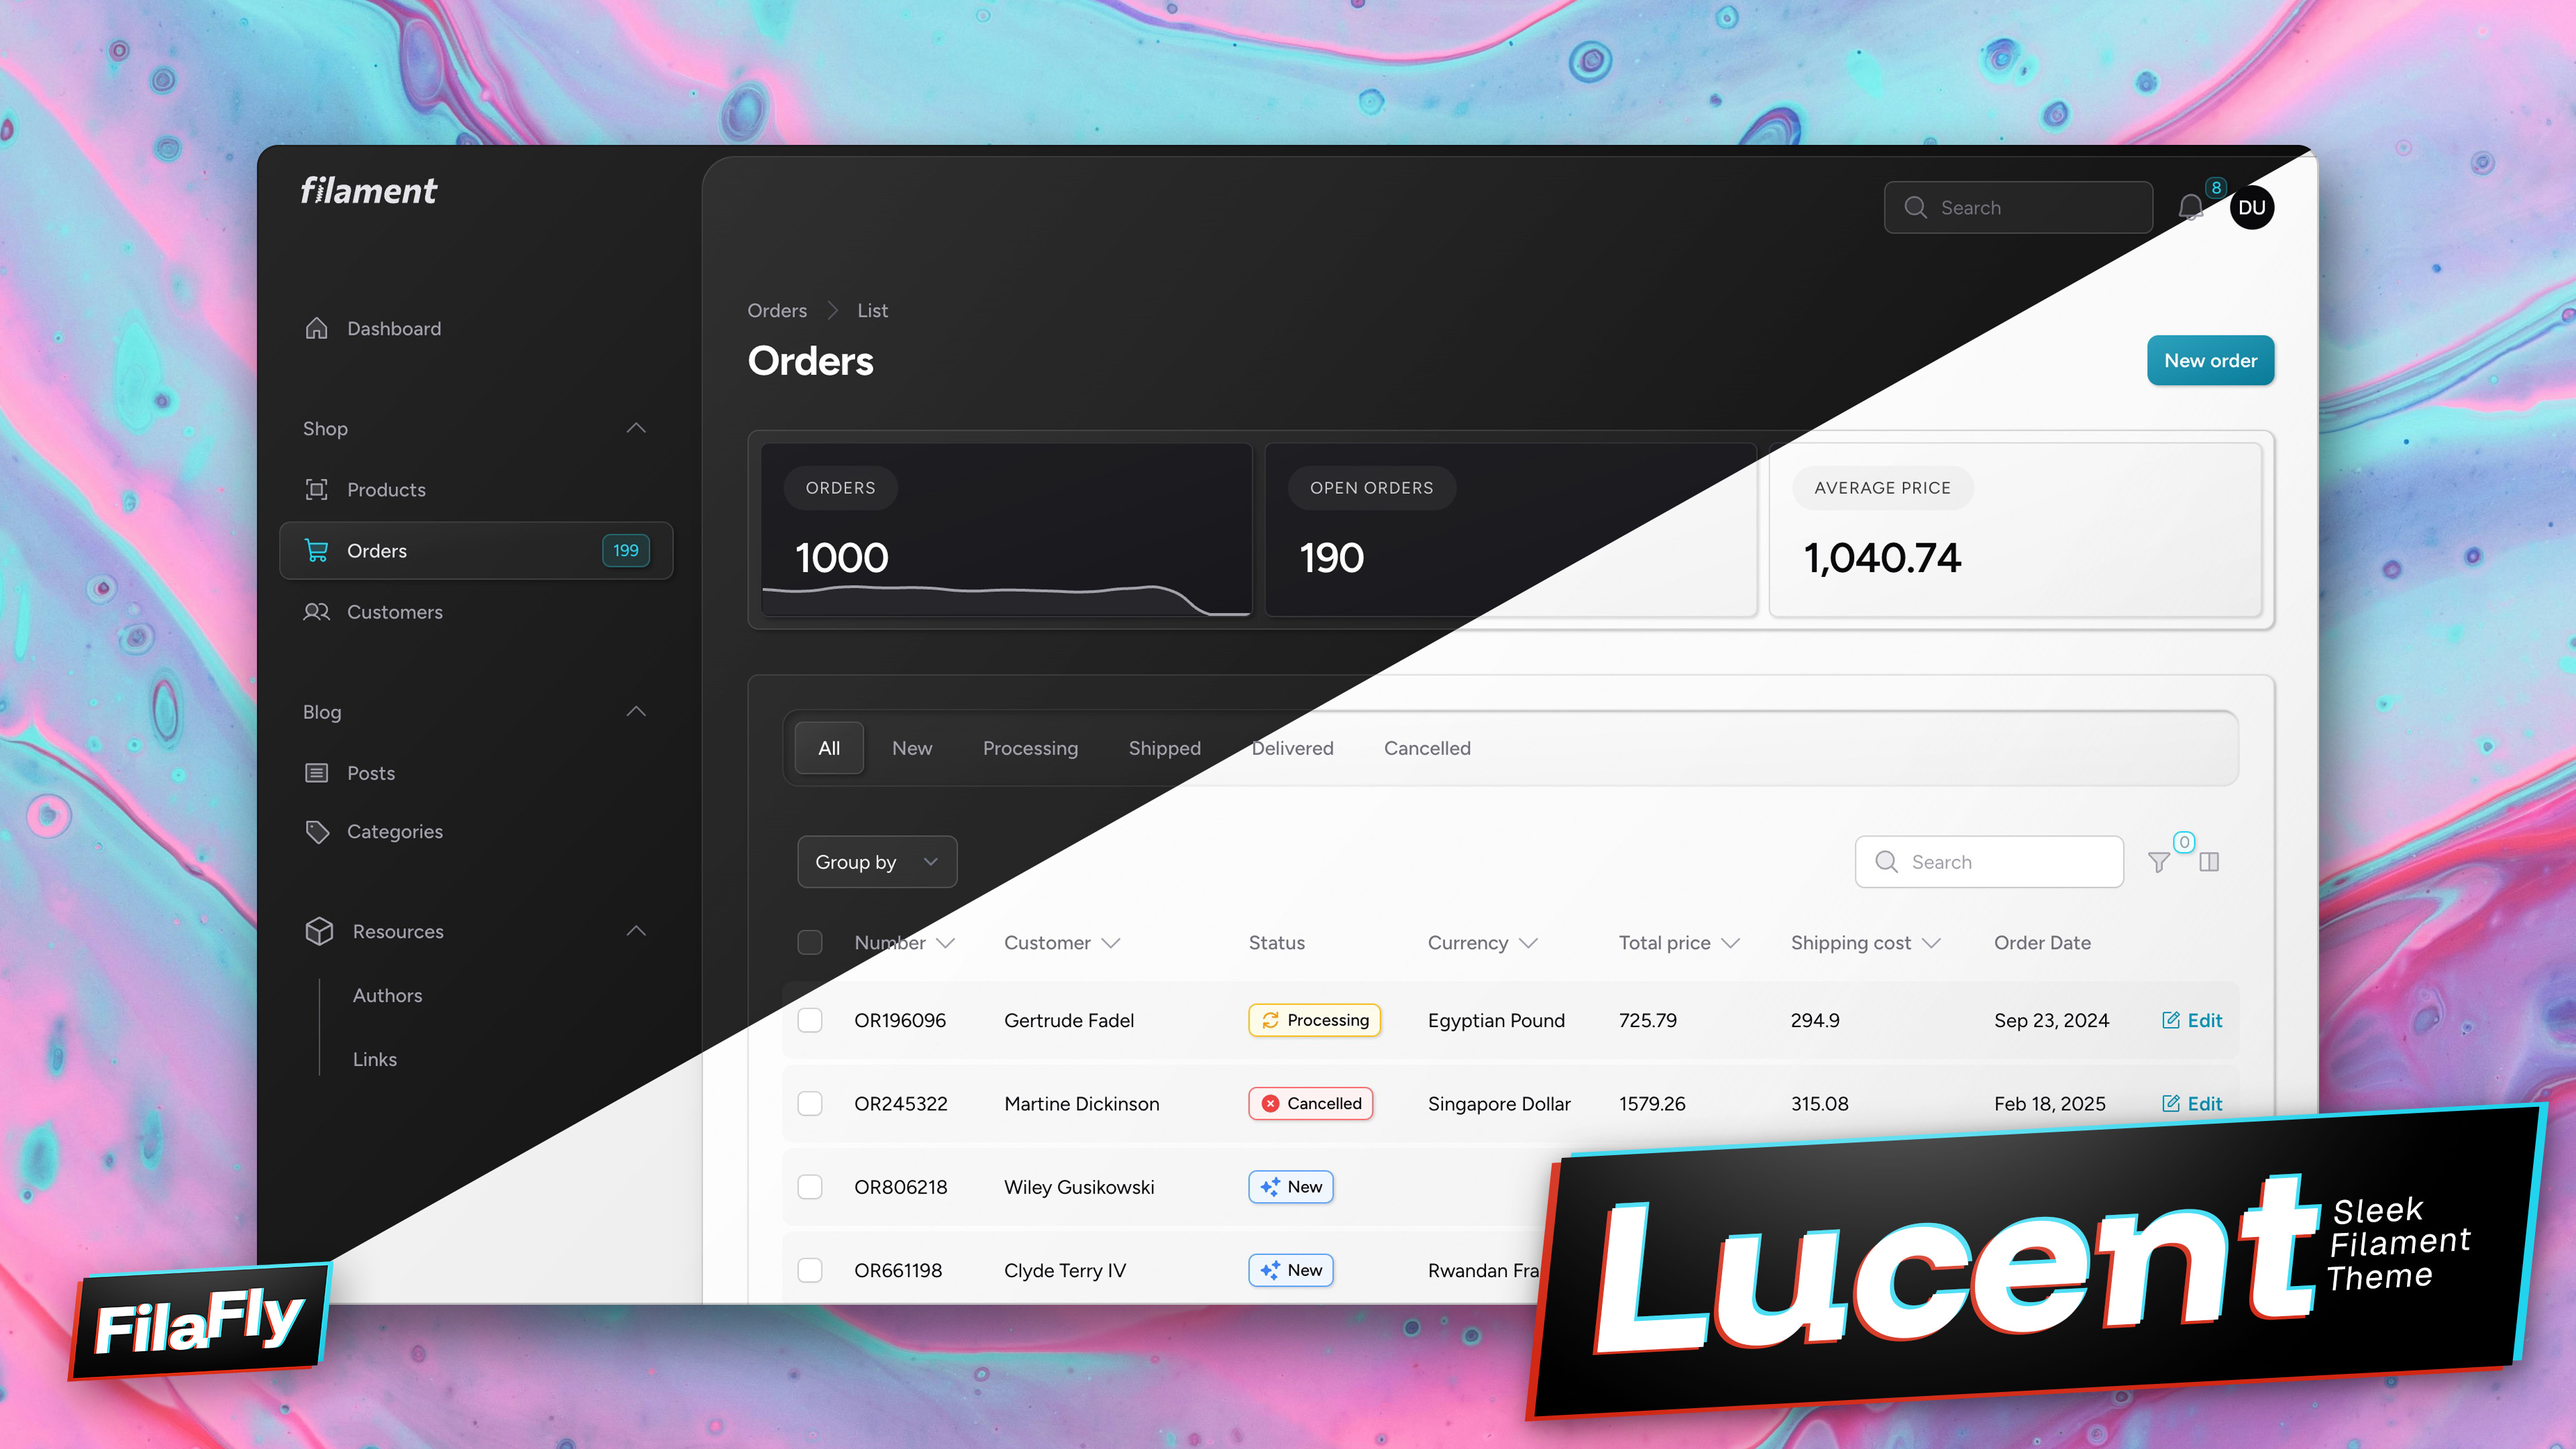
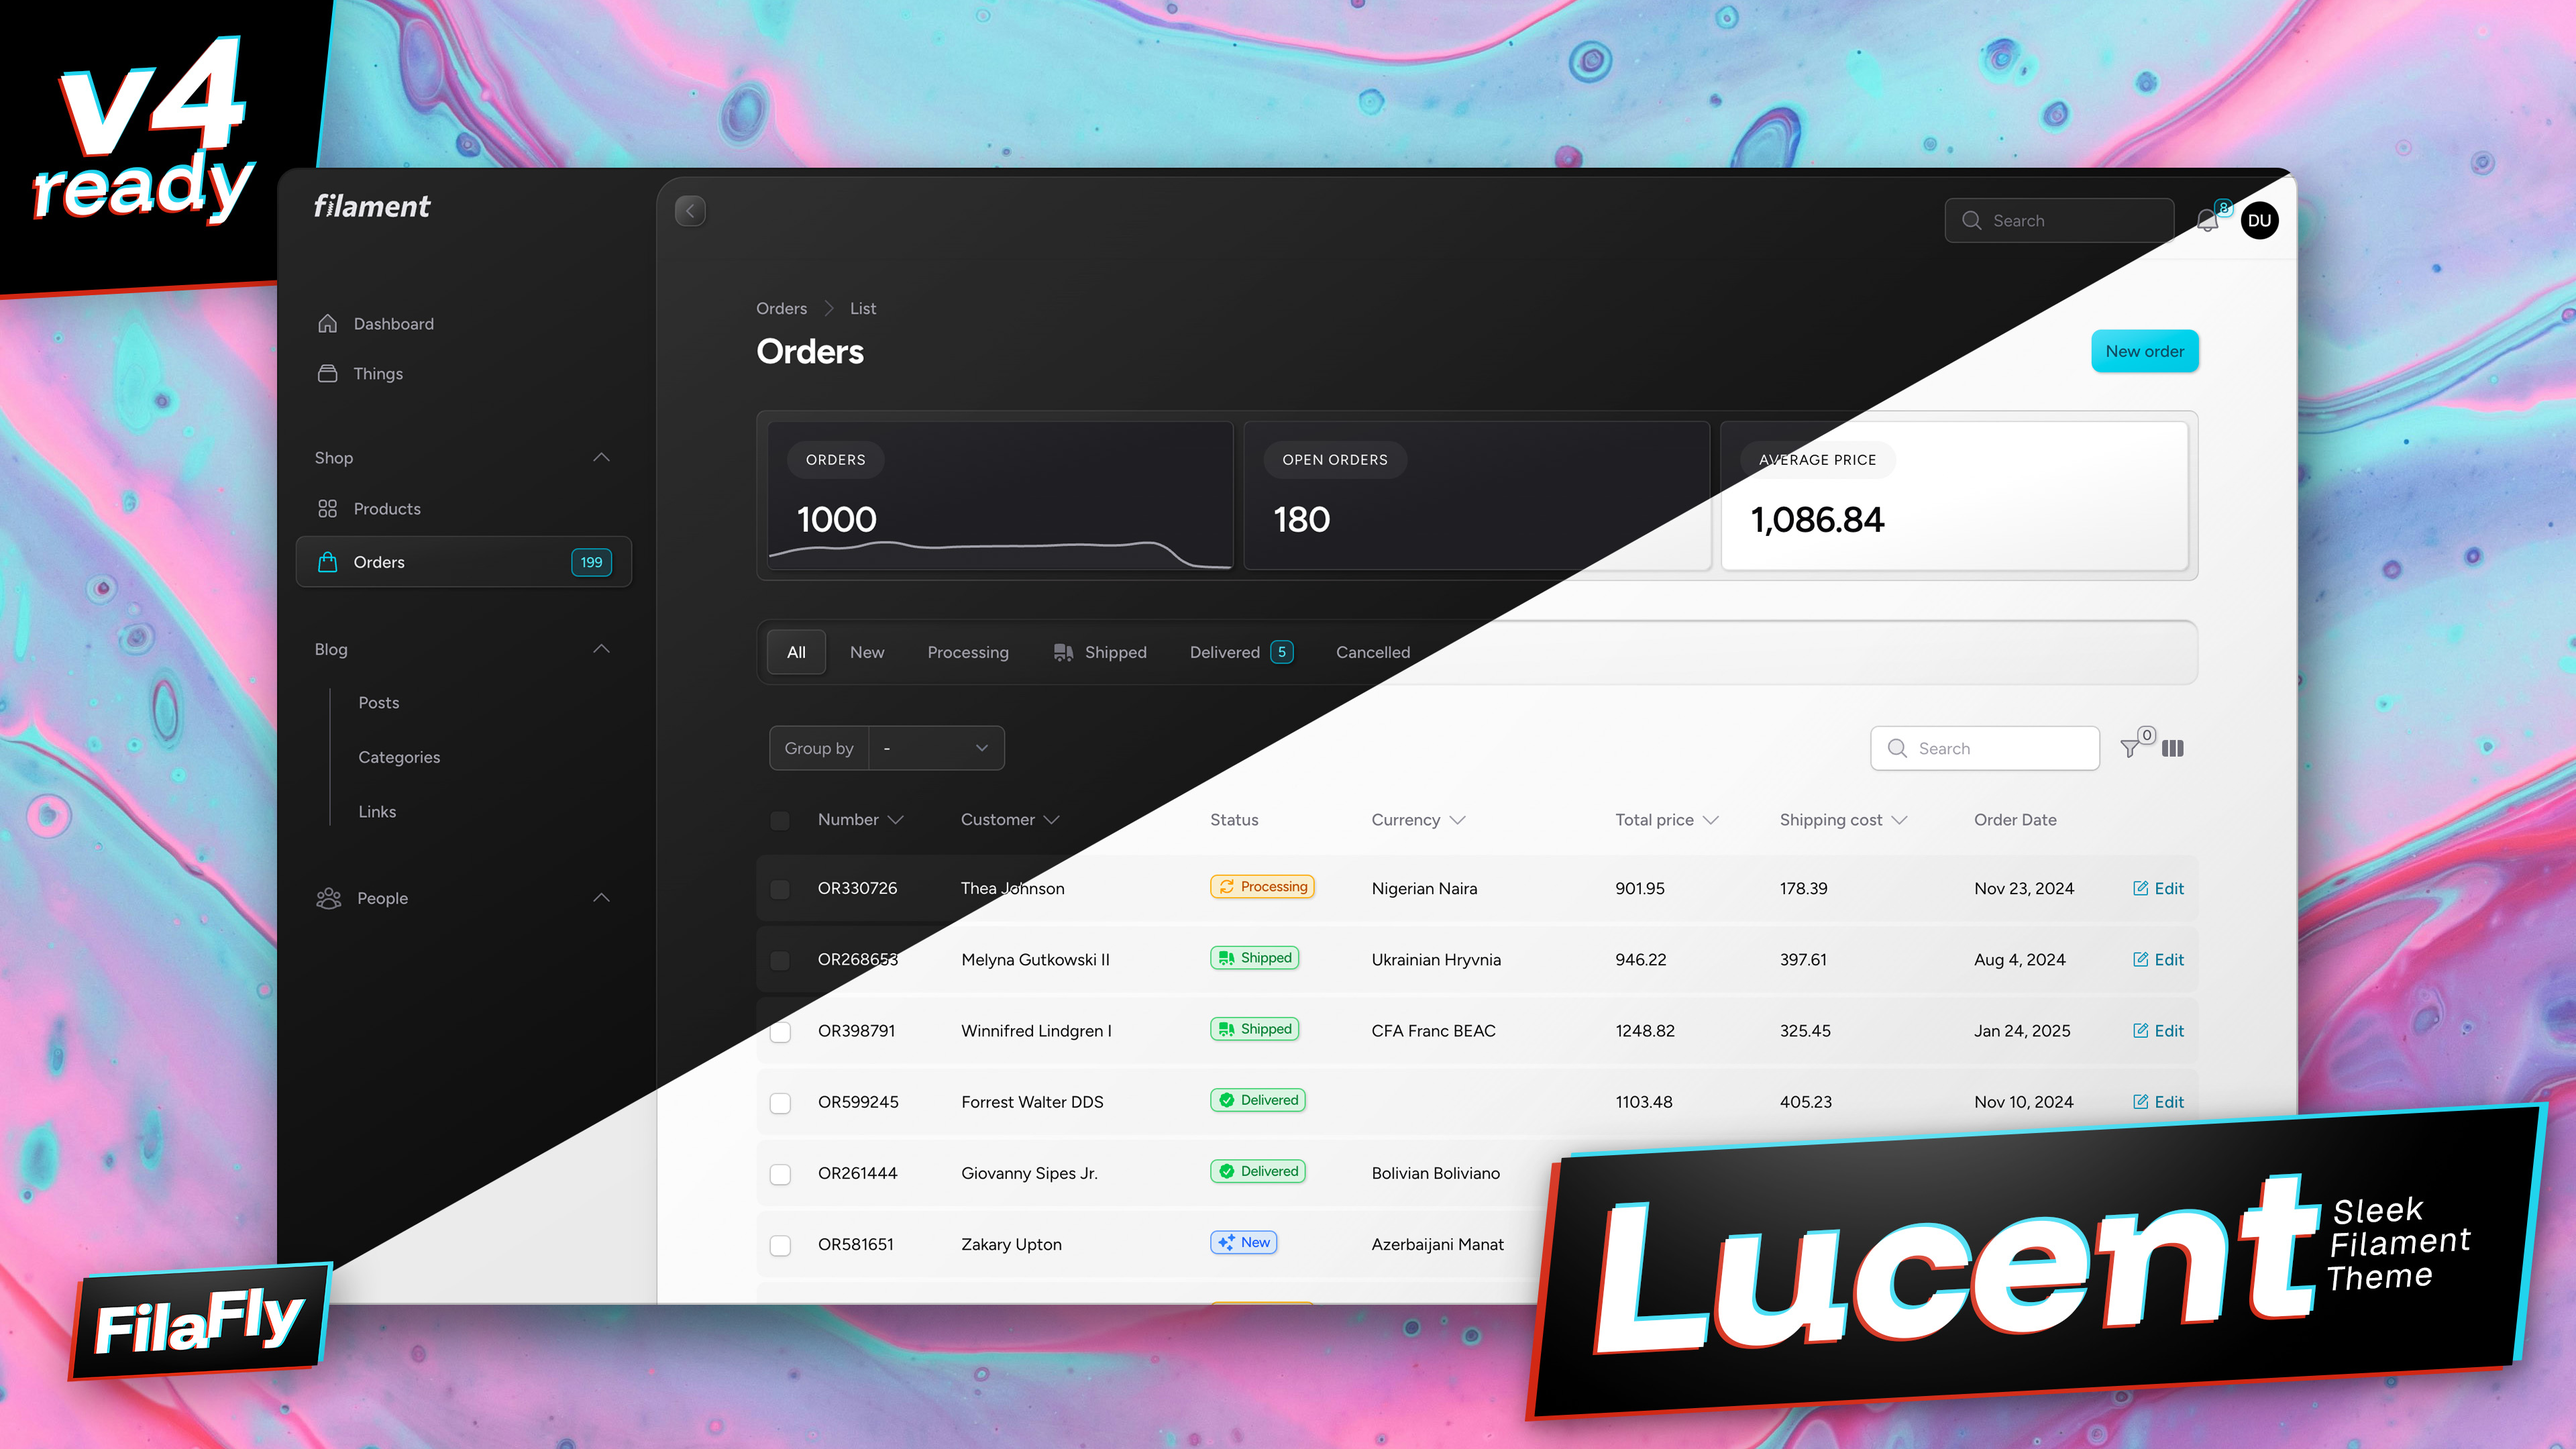
Updating version compatibility

diff --git a/content/plugins/filafly-lucent-theme.md b/content/plugins/filafly-lucent-theme.md
@@ -9,7 +9,7 @@ docs_url: https://filafly.com/docs/lucent-overview
 github_repository: filafly/lucent
 has_dark_theme: true
 has_translations: false
-versions: [3]
+versions: [3, 4]
 publish_date: 2025-06-19
 url: https://filafly.com/themes/lucent
 anystack_id: 9e304159-d21b-4ca2-81a1-2fbe3f5bc292

diff --git a/content/plugins/filafly-phosphor-icons.md b/content/plugins/filafly-phosphor-icons.md
@@ -9,6 +9,6 @@ docs_url: https://raw.githubusercontent.com/filafly/filament-phosphor-icons/refs
 github_repository: filafly/filament-phosphor-icons
 has_dark_theme: true
 has_translations: false
-versions: [3]
+versions: [3,4]
 publish_date: 2025-01-31
 ---
